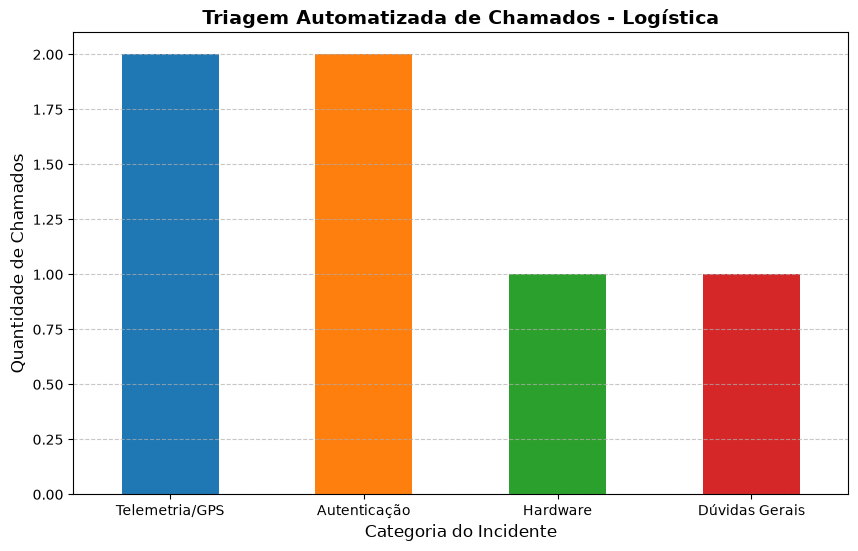
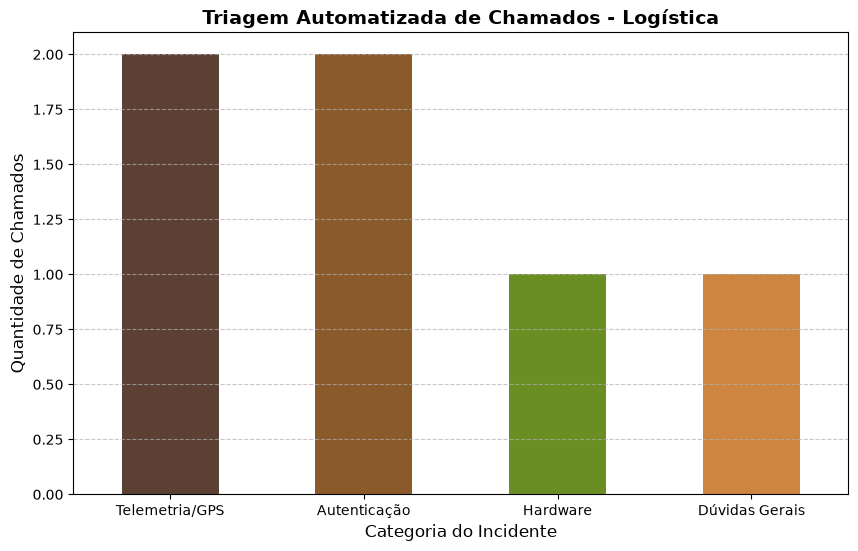
Atualização: Refatoração para cenário fictício (Dunder Mifflin) e nova paleta de cores

diff --git a/triagem.py b/triagem.py
@@ -1,16 +1,44 @@
 import pandas as pd
 import matplotlib.pyplot as plt
-import sqlite3 
+import sqlite3
+import os
+import platform
+
+# function to test network connectivity
+def testar_conexao(host):
+    print(f"Testando conexão com o servidor central ({host})...")
+    
+    # fefine the ping parameter (-n for Windows, -c for Linux/Mac)
+    parametro = '-n' if platform.system().lower() == 'windows' else '-c'
+    comando = f"ping {parametro} 1 {host} > nul 2>&1" if platform.system().lower() == 'windows' else f"ping {parametro} 1 {host} > /dev/null 2>&1"
+    
+    # executes the command in the OS
+    resposta = os.system(comando)
+    
+    if resposta == 0:
+        print("✅ Servidor ONLINE. Iniciando processamento de dados...\n")
+        return True
+    else:
+        print("❌ ALERTA CRÍTICO: Servidor OFFLINE. Processamento abortado para evitar perda de dados.\n")
+        return False
 
 def principal():
+    # verifica a infraestrutura antes de qualquer coisa
+    servidor_operacao = "8.8.8.8" # simulando o servidor de banco de dados/GPS
+    
+    if not testar_conexao(servidor_operacao):
+        return # para a execução do código aqui se não houver rede
+    
     print("Iniciando processamento de chamados de telemetria e frota...")
     
+  
     try:
         df = pd.read_csv('chamados.csv')
     except FileNotFoundError:
         print("Erro: Arquivo 'chamados.csv' não encontrado.")
         return
 
+    
     def categorizar_chamado(descricao):
         texto = str(descricao).lower()
         if any(p in texto for p in ['sinal', 'gps', 'rastreador', 'posição']):
@@ -22,25 +50,19 @@ def principal():
         else:
             return 'Dúvidas Gerais'
 
+
     df['Categoria'] = df['Descricao'].apply(categorizar_chamado)
     
-    # INTEGRAÇÃO COM BANCO DE DADOS (SQL)
-    print("Conectando ao banco de dados SQLite...")
+    # database Integration
     conexao = sqlite3.connect('logistica_suporte.db')
-    
     df.to_sql('historico_chamados', conexao, if_exists='replace', index=False)
+    conexao.close()
+    print("Dados armazenados no banco de dados SQLite.")
     
-    print("\n--- Validação via Consulta SQL ---")
-    resultado_sql = pd.read_sql("SELECT Categoria, COUNT(*) as Total FROM historico_chamados GROUP BY Categoria", conexao)
-    print(resultado_sql)
-    
-    conexao.close() 
-    print("Dados armazenados no banco de dados com sucesso.")
-    
-# gera o gráfico visual
+    # visual dashboard
     contagem = df['Categoria'].value_counts()
     plt.figure(figsize=(10, 6))
-    contagem.plot(kind='bar', color=['#1f77b4', '#ff7f0e', '#2ca02c', '#d62728'])
+    contagem.plot(kind='bar', color=['#5C4033', '#8B5A2B', '#6B8E23', '#CD853F'])
     
     plt.title('Triagem Automatizada de Chamados - Logística', fontsize=14, fontweight='bold')
     plt.xlabel('Categoria do Incidente', fontsize=12)
@@ -49,7 +71,7 @@ def principal():
     plt.grid(axis='y', linestyle='--', alpha=0.7)
     
     plt.savefig('resumo_triagem.png', bbox_inches='tight')
-    print("\nProcesso finalizado! Imagem 'resumo_triagem.png' atualizada.")
+    print("Processo finalizado! Imagem 'resumo_triagem.png' atualizada.")
 
 if __name__ == "__main__":
     principal()
